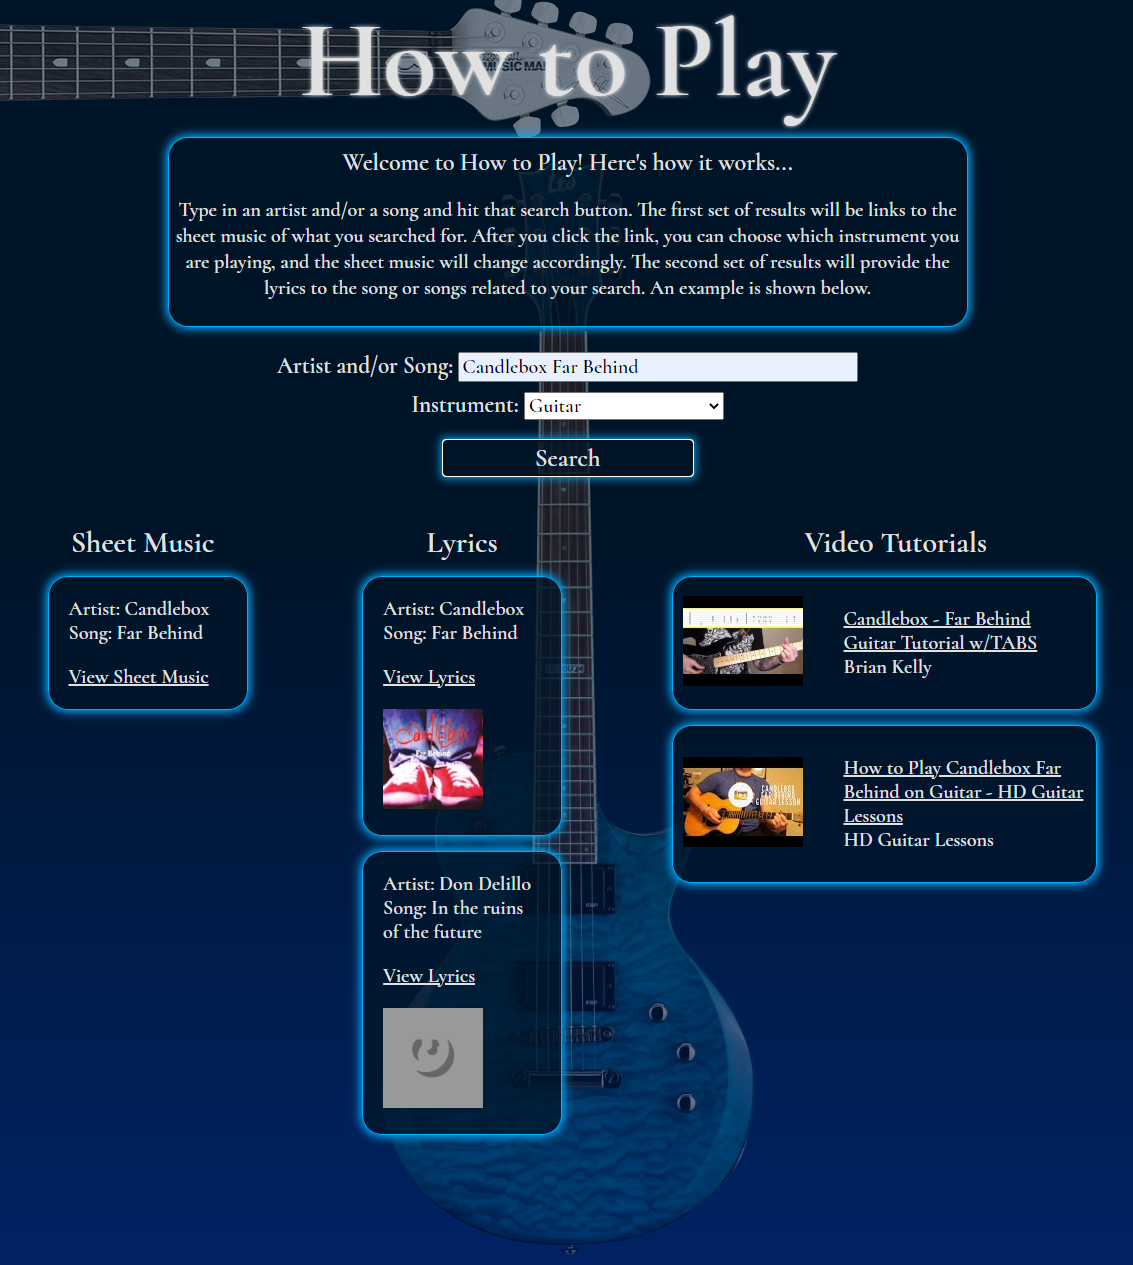
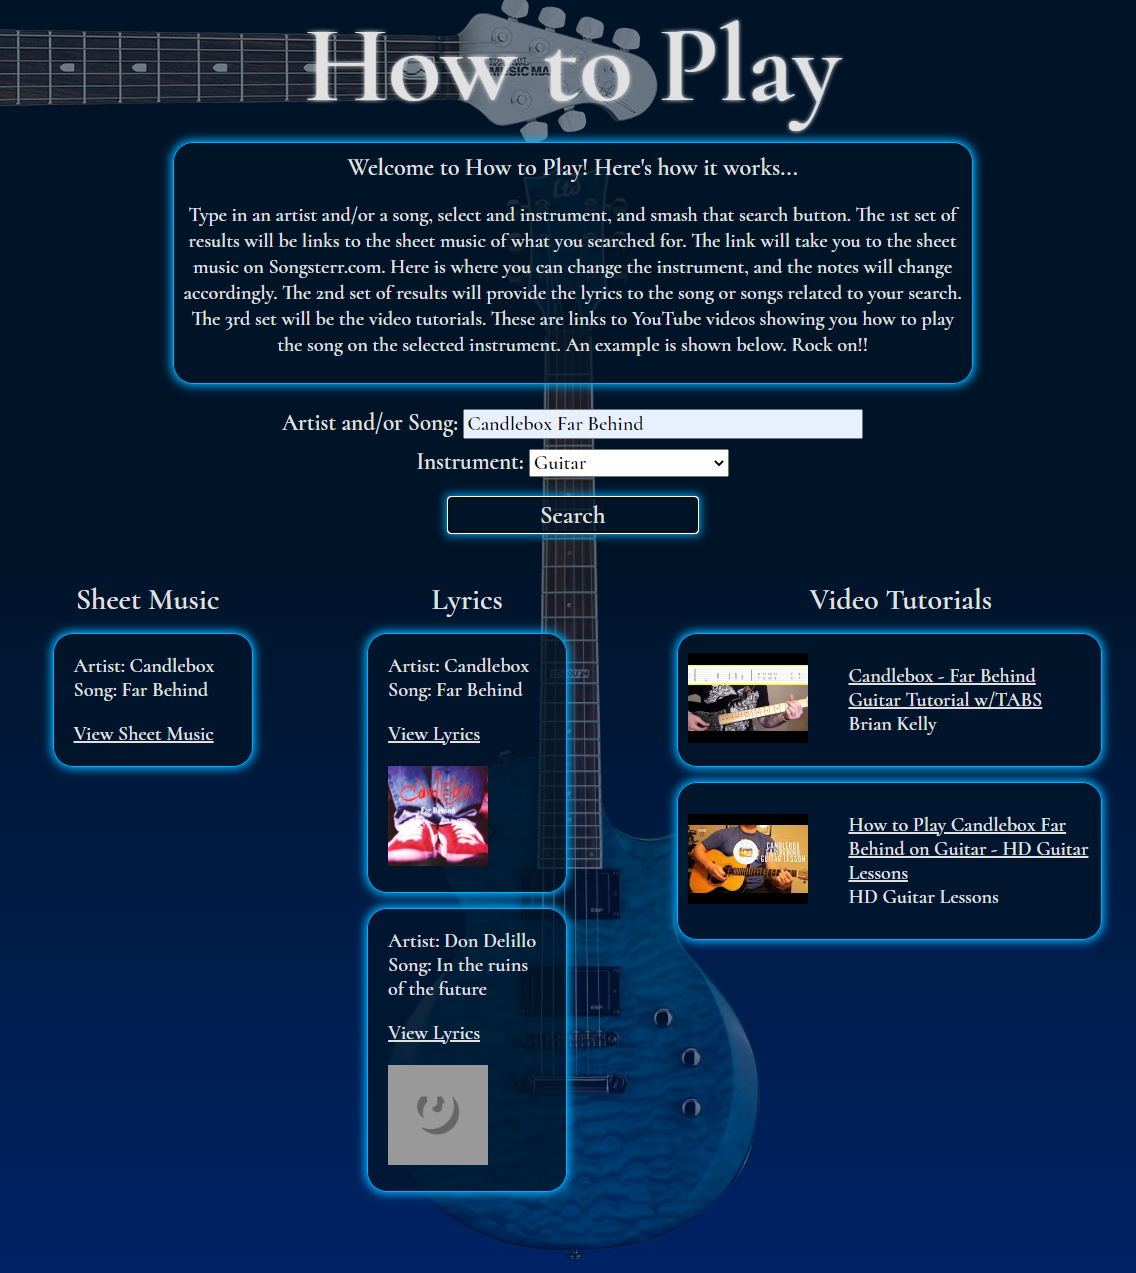
fixed into and README screenshot

diff --git a/index.html b/index.html
@@ -32,11 +32,13 @@
 
     <section class="intro-container">
         <h2>Welcome to How to Play! Here's how it works...</h2><br> 
-        <p class="intro">Type in an artist and/or a song and hit that search button. 
-                         The first set of results will be links to the sheet music of what you searched for. After you click the link,
-                         you can choose which instrument you are playing, and the sheet music will change accordingly.
-                         The second set of results will provide the lyrics to the song or songs related to your search.
-                         An example is shown below.
+        <p class="intro">Type in an artist and/or a song, select and instrument, and smash that search button. 
+                         The 1st set of results will be links to the sheet music of what you searched for. The link 
+                         will take you to the sheet music on Songsterr.com. Here is where you can change the instrument, 
+                         and the notes will change accordingly. The 2nd set of results will provide the lyrics to the 
+                         song or songs related to your search. The 3rd set will be the video tutorials. These are links 
+                         to YouTube videos showing you how to play the song on the selected instrument. An example is 
+                         shown below. Rock on!!
         </p>
     </section>
 

diff --git a/README.md b/README.md
@@ -5,7 +5,7 @@ Why?
 As a multi-instrument player, I'm always learning songs on every instrument that I play. I wanted a source for links to the sheet music, the lyrics, and video tutorials. This app provides all of that.
 
 Screenshot
-![howtoplay-screenshot](https://user-images.githubusercontent.com/62815629/85340721-3385c200-b4ac-11ea-87bf-76ac4969bf4a.png)
+![howtoplay-screenshot](https://user-images.githubusercontent.com/62815629/85342361-0affc700-b4b0-11ea-9304-da69dd7fd9c7.png)
 
 Summary
 This site allows users to search for sheet music, lyrics, and video tutorials for their favorite artists and songs. The user is able to search by artist, song or both. The sheet music lets users choose which instrument they want to learn on.
